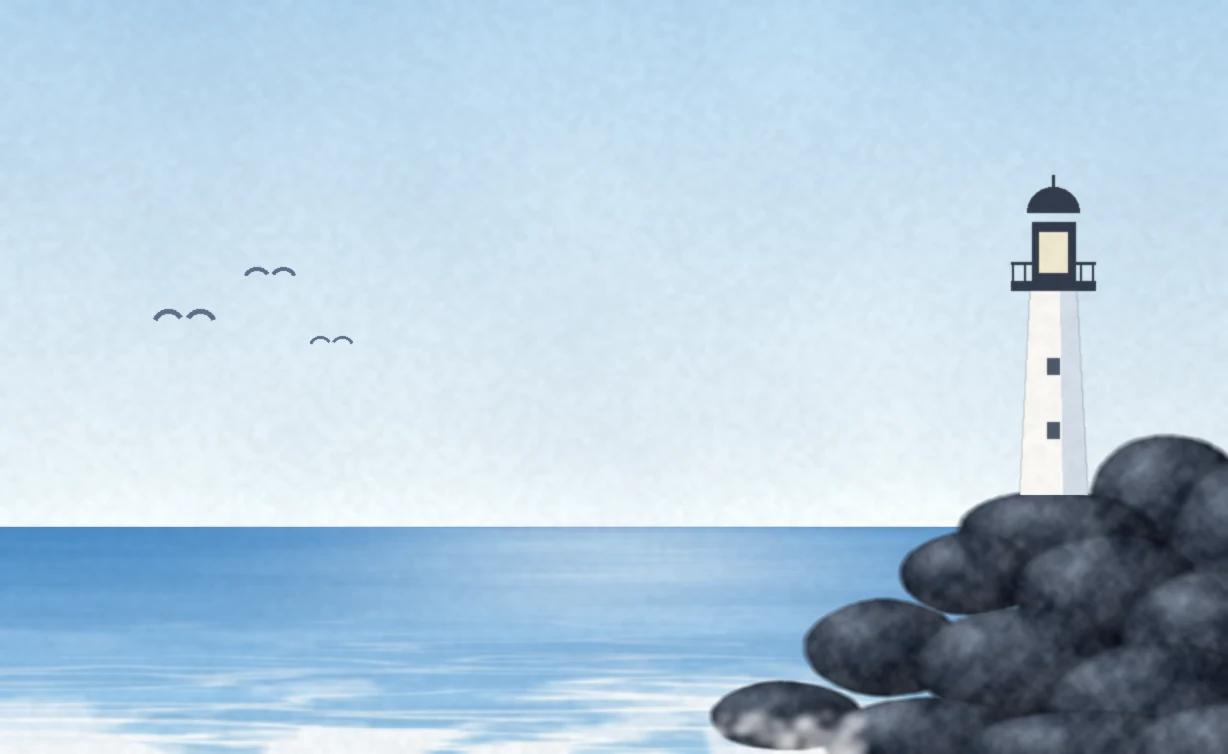
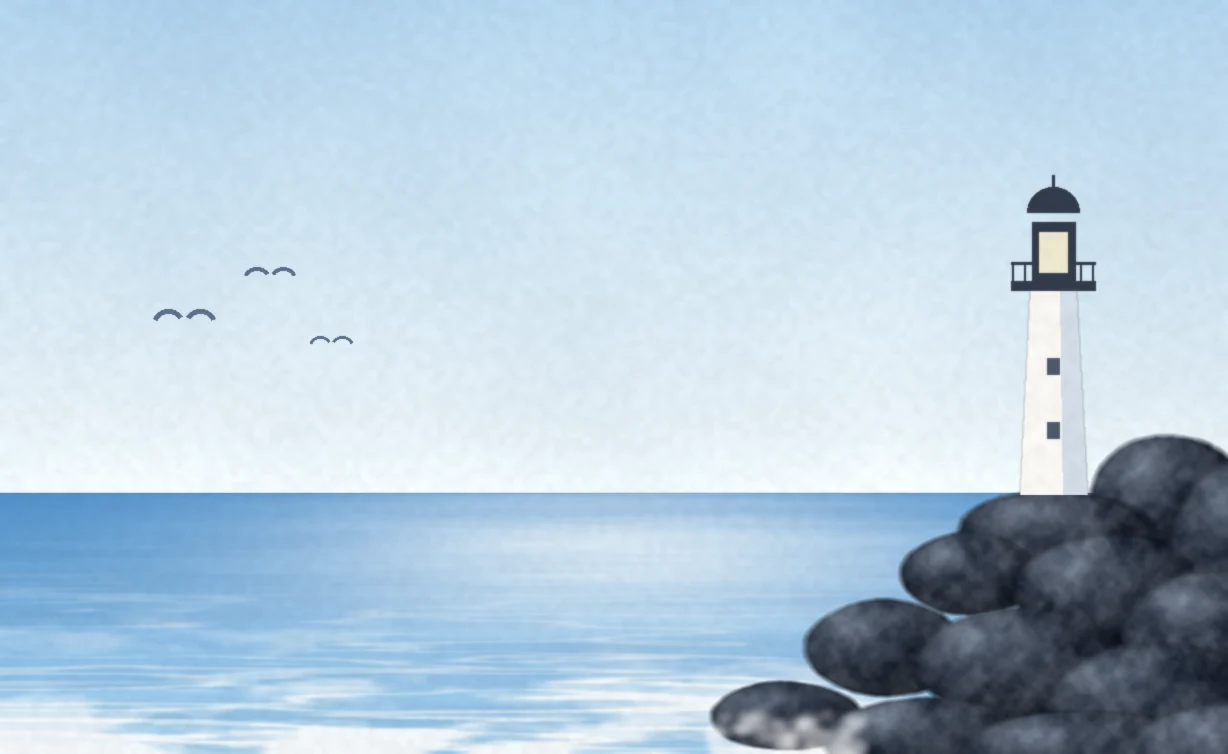
로고 엽서 '살러 왔다, 살아남기'를 더 또렷하게
- 바다 그림의 수평선을 올려(70% → 65.5%) 글자가 수평선 아래 밝은 바다 위에 오게, 햇빛 반사도 넓고 밝게
- 글자를 굵게(800)·조금 크게, 둘레에 은은한 흰 빛 (사용자 요청)

Changed region(s): [[0.0, 0.6406, 0.8355, 0.8541], [0.4642, 0.8236, 0.557, 0.8846]]

diff --git a/public/css/style.css b/public/css/style.css
@@ -1347,7 +1347,11 @@ a { color: inherit; }
   -webkit-mask: url(../images/logo-ijejumin-white.webp) center / contain no-repeat;
   mask: url(../images/logo-ijejumin-white.webp) center / contain no-repeat;
 }
-.pick__cover-text { font-size: calc(var(--pw) * .058); font-weight: 700; line-height: 1.2; letter-spacing: .02em; color: var(--orange); white-space: nowrap; }
+/* 팀 이름: 시안처럼 굵게, 뒤의 바다 그림과 섞이지 않게 둘레에 은은한 흰 빛 (사용자 요청 "글이 잘 보이게") */
+.pick__cover-text {
+  font-size: calc(var(--pw) * .062); font-weight: 800; line-height: 1.2; letter-spacing: .02em; color: var(--orange); white-space: nowrap;
+  text-shadow: 0 0 2px rgba(255, 255, 255, .95), 0 0 6px rgba(255, 255, 255, .85), 0 0 14px rgba(255, 255, 255, .6);
+}
 /* 팝업 그림면: 추천 장소 사진 (돌아가는 엽서 앞면에는 무늬만). 사진이 오기 전에는 뒤의 무늬가 보인다 */
 .pick-pop__photo {
   position: absolute; inset: 0; width: 100%; height: 100%; border-radius: inherit;

diff --git a/reference/tools/make-cover-sea.py b/reference/tools/make-cover-sea.py
@@ -34,7 +34,7 @@ def col(h):
     return np.array([int(h[i:i + 2], 16) for i in (0, 2, 4)], np.float32)
 
 
-HZ = int(H * .70)                     # 수평선 높이
+HZ = int(H * .655)                    # 수평선 높이 (글자 '살러 왔다, 살아남기'가 수평선 아래 밝은 바다 위에 오도록)
 
 # ---------- 하늘: 위는 맑은 하늘색, 수평선 쪽으로 옅게. 수채 얼룩 ----------
 t = np.clip(yy / HZ, 0, 1)[..., None]
@@ -50,9 +50,9 @@ sea = lerp(col('#4A8CC9'), col('#A6D0EC'), st ** .9)
 streak = noise(3, 46, 4, .55)[..., None]
 sea = sea + (streak - .5) * (14 + 30 * st) * np.array([.9, .85, .7])
 # 가운데 수평선 근처 햇빛 반사: 글자('살러 왔다, 살아남기')가 놓이는 자리라 밝게 해서 잘 읽히게
-glare = np.exp(-((xx - .5 * W) / (.24 * W)) ** 2) * np.exp(-((yy - HZ - .05 * H) / (.09 * H)) ** 2)
-glare = glare * (.75 + .5 * (streak[..., 0] - .5))
-sea = lerp(sea, col('#EEF6FA'), np.clip(glare * .78, 0, 1)[..., None])
+glare = np.exp(-((xx - .5 * W) / (.30 * W)) ** 2) * np.exp(-((yy - HZ - .08 * H) / (.11 * H)) ** 2)
+glare = glare * (.85 + .3 * (streak[..., 0] - .5))
+sea = lerp(sea, col('#F4F9FC'), np.clip(glare * .9, 0, 1)[..., None])
 img = np.where((yy >= HZ)[..., None], sea, img)
 img[HZ - 1:HZ + 1] = img[HZ - 1:HZ + 1] * .92
 

diff --git a/CLAUDE.md b/CLAUDE.md
@@ -139,6 +139,8 @@ ijejumin-webzine/
        주황 로고(흰 로고 그림을 모양틀로 써서 `--orange`로 칠함), 그 아래 주황 팀 이름 '살러 왔다, 살아남기' (2026-10-23)
        - 그림: 옅은 하늘, 수평선 아래 파란 바다·앞쪽 흰 물거품, 오른쪽 검은 현무암 바위 위 흰 등대, 왼쪽 갈매기 세 마리
          - 글자 뒤 수평선 근처 바다는 햇빛 반사로 밝게 해 주황 글자가 읽히게 했다
+         - '살러 왔다, 살아남기'가 잘 보이게 (사용자 요청): 수평선을 65.5%로 올려 글자가 수평선 아래 밝은 바다 위에 오고,
+           글자는 굵게(800)·조금 크게, 둘레에 은은한 흰 빛(`text-shadow`)
          - `reference/tools/make-cover-sea.py`로 만든다 (`py reference/tools/make-cover-sea.py public/images/postcard-cover-sea.webp`)
        - 바로 전: 민무늬 크림(`#F6F0E7`) → 그 전: 맑은 하늘·뭉게구름 `images/postcard-cover-sky.webp` (파일은 남겨 둠)
        - 구름 그림은 `reference/tools/make-cover-sky.py`로 만든다: 둥근 봉우리(반구)를 이음매 없이 합치고, 왼쪽 위 햇빛으로 밝은 면·그늘을 계산
